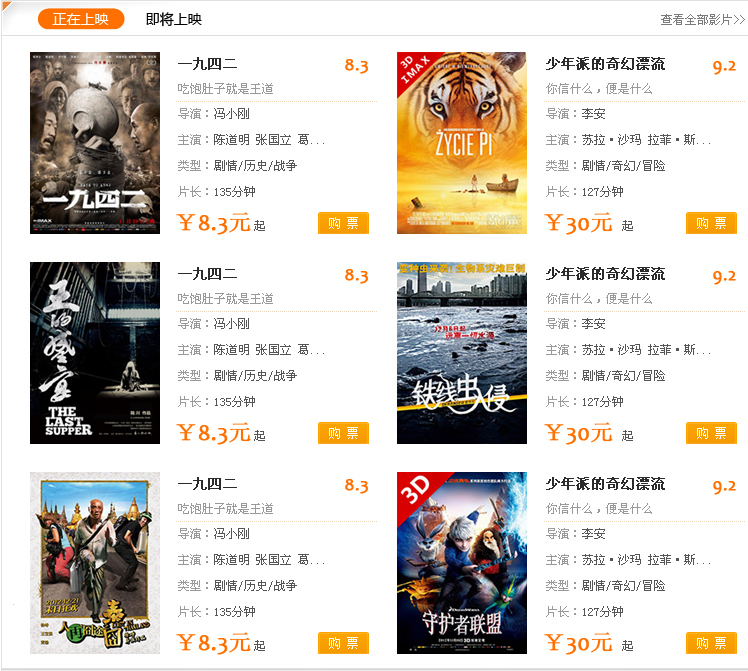
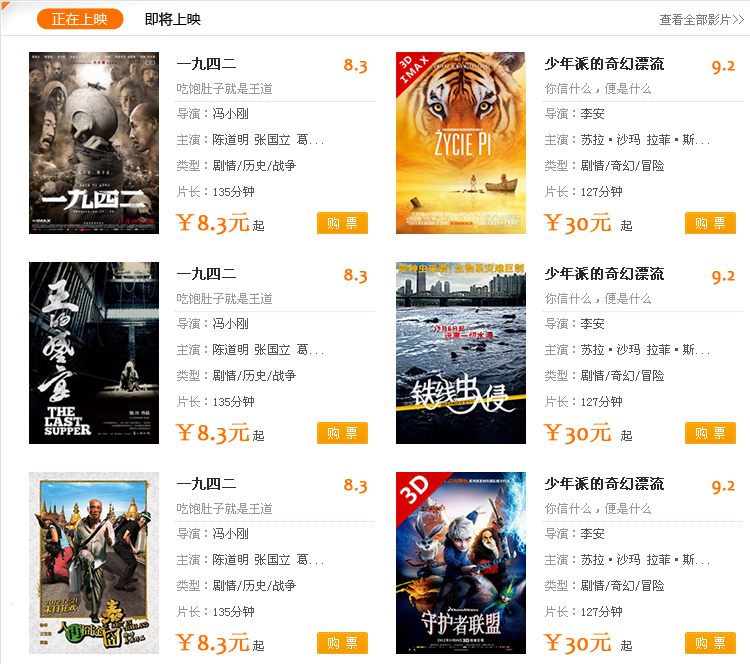
index.html 首页
movielist.html     影片列表页
playtable.html     影片排片
moviegoseat.html   影片选座位

diff --git a/movie/jsp/movielist.html b/movie/jsp/movielist.html
@@ -2,7 +2,7 @@
 <html>
 <head>
 	<meta charset="utf-8" />
-	<title>Sample page</title>
+	<title>影片列表页</title>
  <link  rel="stylesheet"  href="../css/bootstrap.css">
  <link rel="stylesheet"  href="../css/bass.css">
  <link rel="stylesheet"  href="../css/layout.css">
@@ -10,31 +10,31 @@
  <link  rel="stylesheet"  href="../css/style_movie.css">
 </head>
 <body>
-<div id="page" >
-    <div class="mian_bg">
-        <div id="header" class="w950"><img src="../images/other/index_1.jpg" width="950" height="363" alt=" ">
+<div id="page"  class="w950">
+
+        <div id="header" class="w950">
+            <img src="../images/common/Process_two.png" width="950" height="59" alt="流程">
     
         </div>
-    </div>
-    <div id="content"  class="w950">
+    <div id="content"  class="mt10">
 
         <!-- 通栏：.grid-m -->
     	
         <div class="layout grid-m0s5">
                     <div class="col-main">
                         <div class="main-wrap">
-                          <img src="../images/other/index_2.jpg" width="710" height="671">
+                          <img src="../images/other/movielist_1.jpg" width="750" height="1084">
                         </div>
                     </div>
                     <div class="col-sub">
-                        <img src="../images/other/index_3.jpg" width="190" height="671">
+                        <img src="../images/other/movielist_2.jpg" width="190" height="1084">
                     </div>
         </div>   
              <!-- 通栏：.grid-m  end -->  
     </div>
 
   	</div>
-    <div id="footer" class="w950"><img src="../images/other/index_4.jpg" width="950" height="103">
+    <div id="footer" class="w950 "><img src="../images/other/index_4.jpg" width="950" height="103">
 
     </div>
 </div>

diff --git a/movie/jsp/playtable.html b/movie/jsp/playtable.html
@@ -2,21 +2,45 @@
 <html>
 <head>
 	<meta charset="utf-8" />
-	<title>Sample page</title>
- <link rel="alternate" href="../css/bootstrap.css">
+	<title>影片排片</title>
+ <link  rel="stylesheet"  href="../css/bootstrap.css">
+ <link rel="stylesheet"  href="../css/bass.css">
+ <link rel="stylesheet"  href="../css/layout.css">
+ <link  rel="stylesheet" href="../css/global.css">
+ <link  rel="stylesheet"  href="../css/style_movie.css">
 </head>
 <body>
-<div id="page">
-    <div id="header">
-        <!-- page head -->
-    </div>
-    <div id="content">
-        <!-- page content -->
-    </div>
-    <div id="footer">
-        <!-- page foot -->
+<div id="page"  class="w950">
+
+        <div id="header" >
+            <img src="../images/common/Process_two.png" width="950" height="59" alt="流程">
+    
+        </div>
+        <div class="mt10">
+        <img src="../images/other/playtable_1.jpg" width="950" height="305">
+        </div>
+        
+  <div id="content"  class="mt10">
+	
+    <!-- 通栏：.grid-m -->
+    	
+        <div class="layout grid-m0s5">
+                    <div class="col-main">
+                        <div class="main-wrap">
+                          <img src="../images/other/playtable_2.jpg" width="762" height="1023">
+                        </div>
+                    </div>
+                    <div class="col-sub">
+                        <img src="../images/other/movielist_2.jpg" width="190" height="1084">
+                    </div>
+        </div>   
+             <!-- 通栏：.grid-m  end -->  
     </div>
 
+  	</div>
+    <div id="footer" class="w950 "><img src="../images/other/index_4.jpg" width="950" height="103">
+
+    </div>
 </div>
 
 </body>

diff --git a/movie/jsp/moviegoseat.html b/movie/jsp/moviegoseat.html
@@ -2,21 +2,41 @@
 <html>
 <head>
 	<meta charset="utf-8" />
-	<title>Sample page</title>
- <link rel="alternate" href="../css/bootstrap.css">
+	<title>影片列表页</title>
+ <link  rel="stylesheet"  href="../css/bootstrap.css">
+ <link rel="stylesheet"  href="../css/bass.css">
+ <link rel="stylesheet"  href="../css/layout.css">
+ <link  rel="stylesheet" href="../css/global.css">
+ <link  rel="stylesheet"  href="../css/style_movie.css">
 </head>
 <body>
-<div id="page">
-    <div id="header">
-        <!-- page head -->
-    </div>
-    <div id="content">
-        <!-- page content -->
-    </div>
-    <div id="footer">
-        <!-- page foot -->
+<div id="page"  class="w950">
+
+        <div id="header" class="w950">
+            <img src="../images/common/Process_two.png" width="950" height="59" alt="流程">
+    
+        </div>
+    <div id="content"  class="mt10">
+
+        <!-- 通栏：.grid-m -->
+    	
+        <div class="layout grid-m0e6">
+                    <div class="col-main">
+                        <div class="main-wrap">
+                          <img src="../images/other/moviegoseat_1.jpg" width="675" height="576">
+                        </div>
+                    </div>
+                    <div class="col-sub">
+                        <img src="../images/other/moviegoseat_2.jpg" width="259" height="563">
+                    </div>
+        </div>   
+             <!-- 通栏：.grid-m  end -->  
     </div>
 
+  	</div>
+    <div id="footer" class="w950 "><img src="../images/other/index_4.jpg" width="950" height="103">
+
+    </div>
 </div>
 
 </body>

diff --git a/movie/jsp/index.html b/movie/jsp/index.html
@@ -2,12 +2,13 @@
 <html>
 <head>
 	<meta charset="utf-8" />
-	<title>Sample page</title>
+
  <link  rel="stylesheet"  href="../css/bootstrap.css">
  <link rel="stylesheet"  href="../css/bass.css">
  <link rel="stylesheet"  href="../css/layout.css">
  <link  rel="stylesheet" href="../css/global.css">
  <link  rel="stylesheet"  href="../css/style_movie.css">
+    <title>移动电影 首页</title>
 </head>
 <body>
 <div id="page" >
@@ -16,18 +17,21 @@
     
         </div>
     </div>
-    <div id="content"  class="w950">
 
+    <div id="content"  class="w950 ">
+        <div id="" class="mt10 mb10 ">
+            <img src="../images/common/Process.png" width="950" height="65">
+        </div><!-- / -->
         <!-- 通栏：.grid-m -->
     	
         <div class="layout grid-m0s5">
                     <div class="col-main">
                         <div class="main-wrap">
-                          <img src="../images/other/index_2.jpg" width="710" height="671">
+                          <img src="../images/other/index_2.jpg" width="750" height="664">
                         </div>
                     </div>
                     <div class="col-sub">
-                        <img src="../images/other/index_3.jpg" width="190" height="671">
+                        <img src="../images/other/index_3.jpg" width="190" height="668">
                     </div>
         </div>   
              <!-- 通栏：.grid-m  end -->  

diff --git a/movie/css/layout.css b/movie/css/layout.css
@@ -1,7 +1,6 @@
 /*
 双飞翼栅格布局 Flying Swing Grids Layout
 理念：简单质朴，语义化布局。
-维护：玉伯<lifesinger@gmail.com>, 正淳<ragecarrier@gmail.com>
 */
 
 /* 居中 */
@@ -34,7 +33,7 @@
 }
 
 /*
-淘宝采用了 6 种栅格布局：
+采用了 6 种栅格布局：
 950                  .grid-m
 190    750           .grid-s5m0
 750    190           .grid-m0s5
@@ -50,6 +49,9 @@
 .grid-m0s5 .main-wrap { margin-right: 200px; }
 .grid-m0s5 .col-sub { width: 190px; margin-left: -190px; }
 
+.grid-m0e6 .main-wrap { margin-right: 268px; }
+.grid-m0e6 .col-sub { width: 258px; margin-left: -258px; }
+
 /** 三栏布局 **/
 .grid-s5m0e6 .main-wrap { margin: 0 240px 0 200px; }
 .grid-s5m0e6 .col-sub { width: 190px; margin-left: -100%; }
@@ -58,8 +60,4 @@
 .grid-e6m0s5 .main-wrap { margin: 0 200px 0 240px; }
 .grid-e6m0s5 .col-sub { width: 190px; margin-left: -190px; }
 .grid-e6m0s5 .col-extra { width: 230px; margin-left: -100%; }
-
-.grid-m0e6s5 .main-wrap { margin-right: 440px; }
-.grid-m0e6s5 .col-sub { width: 190px; margin-left: -190px; }
-.grid-m0e6s5 .col-extra { width: 230px; margin-left: -430px; }
 

diff --git a/movie/css/bass.css b/movie/css/bass.css
@@ -88,3 +88,6 @@
 .w600{width:600px;}
 .h{height:100%;}
 
+
+/*圆角*/
+.round{-moz-border-radius: 5px;-webkit-border-radius: 5px;border-radius: 5px;behavior: url(ie-css3.htc);background-color:#fff;}
